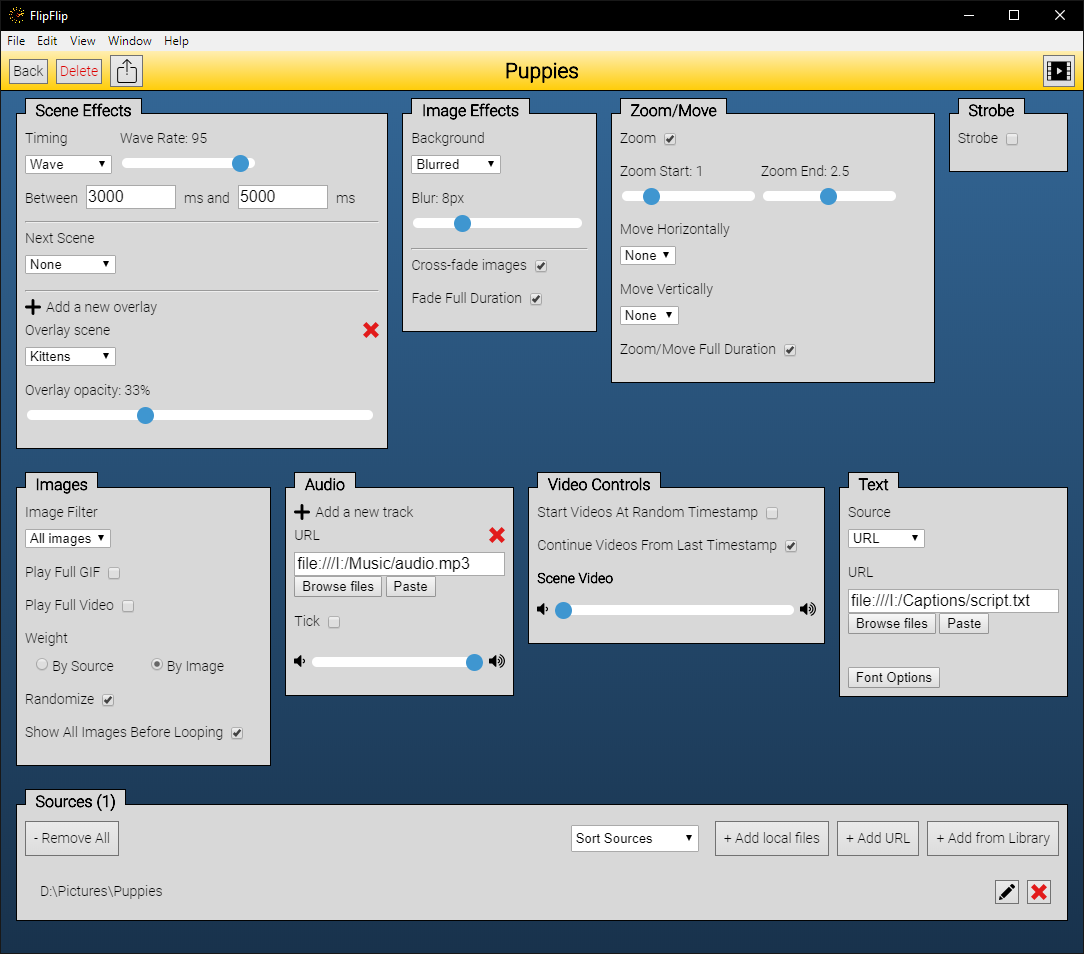
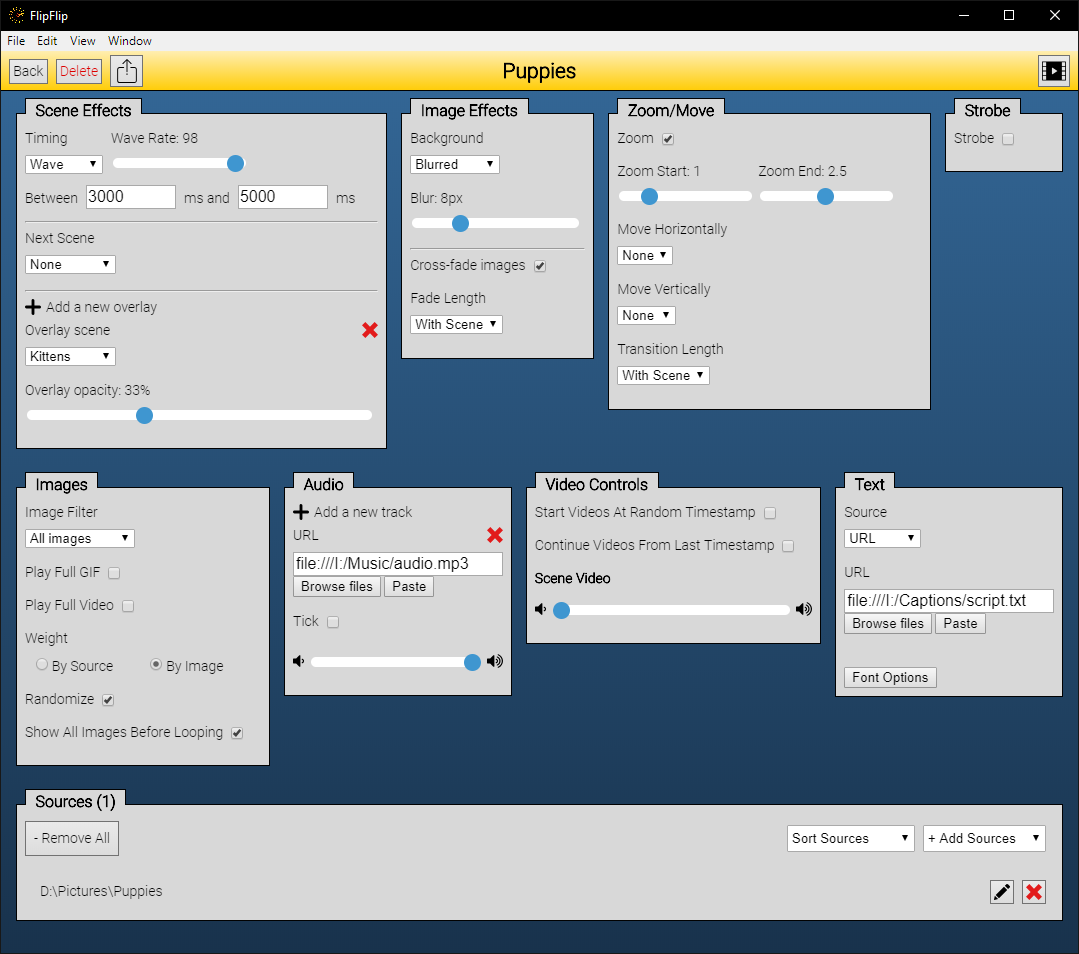
Prep for v2.2.2

diff --git a/docs/sources.md b/docs/sources.md
@@ -1,16 +1,19 @@
 # Sources
 The most important part of any Scene is its **Sources**. This is simply a list of all the places FlipFlip will 
 find images to show. FlipFlip supports sources from (1) Local Directories, (2) A text document with a list of 
-image URLs, or (3) one of the [currently supported remote sources](#currently-supported-remote-sources).
+image URLs, (3) a single video file URL, or (4) one of the 
+[currently supported remote sources](#currently-supported-remote-sources).
 
 * Sources can be ordered Alphabetically (either their full URL or their parsed name), by Date Added, or by Type.
 * Sources can also be manually ordered by drag'n'dropping them.
 
 ## Modifying sources
 #### Adding new source
-* Click `+ Add local files` to lookup local directories.
-* Click `+ Add URL` to input the URL of a remote source.
-* Click `+ Add from Library` to import scenes from the Library.
+Click `+ Add Sources` and choose one of the following options:
+* Click `+ URL` to input the URL of a remote source or video file.
+* Click `+ Local directory` to lookup local directories.
+* Click `+ Local video` to look up local video files.
+* Click `+ From Library` to import sources from the Library.
   * For more information about this process see the [Import from Library](import_from_library.md) section.
 
 #### Editing existing source
@@ -25,7 +28,7 @@ alt="Clear cache" width="20" height="20">
 ## Source types
 
 #### Local Directory
-The simplest way to use FlipFlip is to click `+ Add local files` and pick a directory on your computer that contains 
+The simplest way to use FlipFlip is to click `+ Local directory` and pick a directory on your computer that contains 
 images. FlipFlip will search the entire directory, including subfolders.
 
 #### Image List
@@ -38,7 +41,13 @@ https://cdn-images-1.medium.com/max/2000/0*vnYtP9N80SQ0pOOD.png
 Then you can either save that file to your computer, or uploaded it to a text file hosting service like 
 [Hastebin](https://hastebin.com) if you want to share it with others.
 
-Once you've created this file, click `+ Add URL`. Simply type or paste the path to your text file (remote or local).
+Once you've created this file, click `+ URL`. Simply type or paste the path to your text file (remote or local).
+
+#### Video File
+You can add individual video files as sources too. These can be either local files or remote files. To add a 
+local video file, click `+ Local video` and choose the video(s) you want to add.
+
+?> **NOTE:** _Each video will be weighted as its own source._
 
 #### Currently Supported Remote Sources
 
@@ -49,7 +58,10 @@ Once you've created this file, click `+ Add URL`. Simply type or paste the path 
 * <img style="vertical-align: -2px" src="doc_icons/imgur.svg" alt="Imgur" width="15" height="15"> Imgur Album
 * <img style="vertical-align: -2px" src="doc_icons/deviantart.svg" alt="DeviantArt" width="15" height="15"> DeviantArt User
 * <img style="vertical-align: -2px" src="doc_icons/sexcom.svg" alt="Sex.com" width="15" height="15"> Sex.com Gallery/User
-* <img style="vertical-align: -2px" src="doc_icons/imagefap.svg" alt="ImageFap" width="15" height="15">ImageFap Gallery/Organizer
+* <img style="vertical-align: -2px; margin-right: 5px" src="doc_icons/imagefap.png" alt="ImageFap" width="15" height="15">ImageFap Gallery/Organizer
+* <img style="vertical-align: -2px; margin-right: 5px" src="doc_icons/danbooru.png" alt="Danbooru" width="15" height="15">Danbooru Tag/User/Pool
+* <img style="vertical-align: -2px; margin-right: 5px" src="doc_icons/gelbooru.png" alt="Gelbooru" width="15" height="15">Gelbooru Tag
+* <img style="vertical-align: -2px; margin-right: 5px" src="doc_icons/ehentai.png" alt="E-Hentai" width="15" height="15">E-Hentai Gallery
 
 #### Gooninator import
 If you have some saved links from the beloved, retired web app Gooninator, you can import them into FlipFlip either as 

diff --git a/docs/effects.md b/docs/effects.md
@@ -1,11 +1,13 @@
 # Effects
 FlipFlip gives users some pretty finite control over various playback effects.
 
+For most options, choose to time as a constant, random, wave, or with the scene.
+  * For random and wave, choose min and max (ms) of time range.
+  * For wave, choose wave rate. _95-100 is generally recommended_ 
+
 ## Scene effects
 This section controls how the scene will play out.
-* Choose to display images at a constant rate (ms), randomly, or in a wave.
-  * For randomly and wave, choose min and max (ms) of time range.
-  * For wave, choose wave rate. _95-100 is generally recommended_
+* Choose to display images at a constant rate (ms), random, or in a wave.
 * Choose a scene to transition to after this one (or none). Control timing of next scene (sec).
 * Add scene(s) to overlay over this one (or none). Control overlay opacity.
   * There is no limit to the number of overlays, but you may experience poor performance if you use too many.
@@ -21,7 +23,8 @@ text, etc. will also change as configured_
 ## Image effects
 This section controls the background and fade effects.
 * Choose either a blurred or solid color background. Control blur amount or color.
-* Choose whether to cross-fade images. Control fade duration (ms).
+* Choose whether to cross-fade images.
+* Choose to fade for a constant duration (ms), random, or in a wave.
 
 <details>
   <summary>Show Example</summary>
@@ -33,7 +36,7 @@ This section controls image movement.
 * Choose zoom on/off. Control start/end scale.
 * Choose move horizontally left/right (or none). Control distance (%).
 * Choose move vertically up/down (or none). Control distance (%).
-* Control zoom/move time (ms).
+* Choose to zoom/move for a constant duration (ms), random, or in a wave.
 
 <details>
   <summary>Show Example</summary>
@@ -44,6 +47,7 @@ This section controls image movement.
 This section controls the strobe effect.
 * Choose strobe on/off. Control color, strobe time (ms).
 * Choose delay on/off. Control delay time (ms).
+* Choose to strobe/delay for a constant duration (ms), random, or in a wave.
 * Control strobe layer. If at "Behind All", control opacity.
 
 <details>
@@ -65,9 +69,7 @@ This section controls which images are displayed and in what order.
 This section controls the scene's audio component. It also contains the audio controls while playing.
 "Tick" means the audio file will play/restart at a certain interval.
 * Add audio files to loop or "tick".
-* For "Tick", choose to play the audio track at a constant rate (ms), randomly, or in a wave.
-  * For randomly and wave, choose min and max (ms) of time range.
-  * For wave, choose wave rate. _95-100 is generally recommended_
+* For "Tick", choose to play the audio track at a constant rate (ms), random, or in a wave.
 * Control the volume of each track.
   
 ## Video Controls

diff --git a/docs/import_export.md b/docs/import_export.md
@@ -12,7 +12,7 @@ post this text online for someone to import with (you don't have to share the fi
 
 Any overlays will also be exported with this scene. However, those overlays' overlays will not.
 
-?> NOTE: _Due to the nature of FlipFlip scenes, we don't recommend you try and import/export Scenes with local 
+?> **NOTE:** _Due to the nature of FlipFlip scenes, we don't recommend you try and import/export Scenes with local 
 directories. This will technically work, but the import/exporter would have to have the same file paths (or will 
 have to modify them manually). In addition, any exported Generators will be imported as regular Scenes._
 

diff --git a/docs/quickstart.md b/docs/quickstart.md
@@ -25,7 +25,7 @@ _Note: Some of these features (3 & 7) will be disabled until they are relevant_
 Let's create a simple scene to get you familiar with how things will work
 * Click `+ Add Scene` to create your first scene.
 * Give your scene a name.
-* In the `Sources` tab, click `+ Add local files`.
+* In the `Sources` tab, click `+ Add Sources`, then click `+ Local directory`.
 * Navigate to a folder with some images you'd like to use and click `Select Folder`.
   * Your selection should now appear in `Sources`.
 * Add some effects if you'd like.

diff --git a/docs/library.md b/docs/library.md
@@ -1,8 +1,5 @@
 # Library
-The **Library** is a place for you to collect and manage all your sources. If you had previously used FlipFlip before 
-`v2.0`, the Library will be automatically populated with all your Scenes' sources. 
-
-To access the Library just click `Library` on the Home page.
+The **Library** is a place for you to collect and manage all your sources. To access the Library just click `Library` on the Home page.
 
 ![](doc_images/library.png)
 

diff --git a/Readme.md b/Readme.md
@@ -18,7 +18,7 @@
 * **[Subreddit](https://www.reddit.com/r/flipflip/)**
 
 ## Features
-- Local files + Tumblr, Reddit, Twitter, Instagram, Imugr, DeviantArt & More!
+- Local files + Tumblr, Reddit, Twitter, Instagram, Imugr, DeviantArt, Booru & More!
 - Animated GIF and Video support
 - Visual Effects (Fade, Zoom/Transition, Strobe/Pulse, Overlay)
 - Library and tagging to organize your sources and generate scenes

diff --git a/docs/README.md b/docs/README.md
@@ -5,7 +5,7 @@
 ##### [Releases](https://github.com/ififfy/flipflip/releases)
 
 ## Features
-* Local files as well as Tumblr, Reddit, Twitter, Instagram, Imgur, DeviantArt & More
+* Local files as well as Tumblr, Reddit, Twitter, Instagram, Imgur, DeviantArt, Booru & More
 * Animated GIF and Video support
 * Visual Effects (Fade, Zoom/Transition, Strobe/Pulse, Overlay)
 * Random or ordered playback

diff --git a/docs/changelog.md b/docs/changelog.md
@@ -1,5 +1,14 @@
 # Changelog
 
+## 2.2.2 <small>(07/15/2019)</small>
+- Improve performance
+- Improve scraping
+- E-Hentai & Danbooru/Gelbooru board support
+- Allow single video files as sources
+- Add Video Only option
+- Add more Strobe options
+- Fix bug with progress display hiding too early
+
 ## 2.2.1  <small>(07/08/2019)</small>
 - Audio/Video controls
 - Sound in videos
